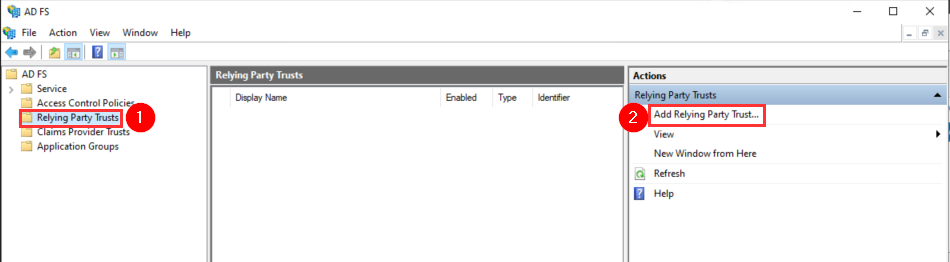
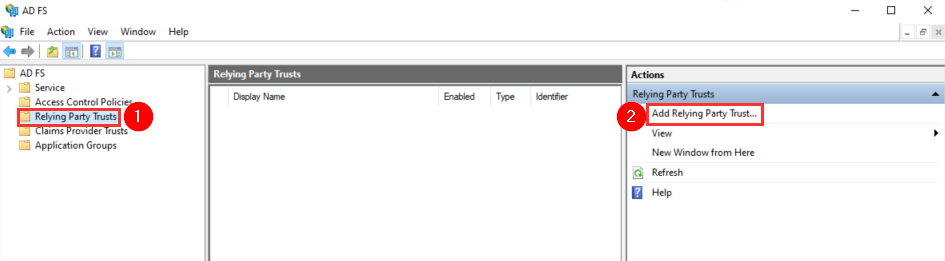
Improve image quality and width

Changed region(s): [[0.0, 0.0, 1.0, 1.0], [0.982, 0.4598, 1.0, 0.5517], [0.982, 0.9502, 1.0, 1.0]]

diff --git a/_posts/2023-08-22-Configuring-HPE-GreenLake-SSO-SAML-Authentication-with-ADFS.md b/_posts/2023-08-22-Configuring-HPE-GreenLake-SSO-SAML-Authentication-with-ADFS.md
@@ -194,7 +194,7 @@ So if you are not connected to HPE GreenLake with an email from your SAML domain
 >
 > Then click on **Send Invite**. This will send an email invitation to the mailbox of your AD user. 
 > 
-> ![]( {{ site.baseurl }}/assets/images/AD-ADFS-12.png){:class="citation-image-post"}{:height="400px"}
+> ![]( {{ site.baseurl }}/assets/images/AD-ADFS-12.png ){:class="body-image-post"}{:width="50%"}
 >
 > Accept the invitation by clicking on the **Accept invitation** button and complete the HPE GreenLake registration.
 
@@ -273,9 +273,9 @@ In the results page, you might have a few warnings. You can then close the wizar
 
 > **Note**: If you get an SPN error message, you can run the following command from a PowerShell console:    
 ```bash
-setspn -a host/localhost <service account>
+setspn -a host/localhost <service-account>
 ```    
-> where **\<service account\>** corresponds to **adfssvc** in our case. 
+> where *\<service-account\>* corresponds to **adfssvc** in our case. 
 
 AD FS service should be running now, make sure the status is *online* in the Server Manager console:
 
@@ -297,7 +297,7 @@ By default ADFS is not configured for RelayState, a parameter of the SAML federa
 
 > If you don't enable RelayState and don't use the special encoded url with *RelayState*, you will get the following error from HPE GreenLake when using the iDP-initiated SSO:   
 > 
-> ![]( {{ site.baseurl }}/assets/images/AD-ADFS-25-1.png){:class="body-image-post"}{:height="300px"}
+> ![]( {{ site.baseurl }}/assets/images/AD-ADFS-25-1.png){:class="body-image-post"}{:width="50%"}
 
 
 There are two steps to this configuration:
@@ -317,18 +317,24 @@ There are two steps to this configuration:
 
 2. Building the URL required at the ADFS sign on page:
 	
-   In addition, RelayState requires a encoded URL for the iDP-initiated login. To generate this encoded URL, you can use an ADFS RelayState generator tool such as [https://jackstromberg.com/adfs-relay-state-generator/](https://jackstromberg.com/adfs-relay-state-generator/). 
+   In addition, RelayState requires an encoded URL for the iDP-initiated login. To generate this encoded URL, you can use an ADFS RelayState generator tool such as [https://jackstromberg.com/adfs-relay-state-generator/](https://jackstromberg.com/adfs-relay-state-generator/) using the following URLs:
+   - *IDP URL String*: **https://\<FQDN\>/adfs/ls/IdPInitiatedSignon.aspx** with *\<FQDN\>* the fully qualified domain name (FQDN) host name of your ADFS server.
+ <br/>
 
-   You can use the following URLs:
-   - IDP URL String: **https://\<FQDN\>/adfs/ls/IdPInitiatedSignon.aspx** with \<FQDN\> the fully qualified domain name (FQDN) host name of your ADFS server.
-   - Relying Party Identifier: **https://sso.common.cloud.hpe.com**
-   - For Relay State, you can use different URL depending on your needs:   
-       - If you want to get to the HPE GreenLake home page, you can use: **https://common.cloud.hpe.com**
-       - If you want to get to an application instance such as Compute Ops Management US-West home page, you can use **https://us-west2.compute.cloud.hpe.com** but this is not recommended if you have more than one application on the HPE GreenLake platform.     
-           
-   > If you use "Compute Ops Management" as the RelayState, after logging on, you will be redirected to the home page of Compute Ops Management.
+   - *Relying Party Identifier*: **https://sso.common.cloud.hpe.com**
+ <br/>
+  
+   - For *Relay State*, you can use different URL depending on your needs:   
+       - **https://common.cloud.hpe.com** if you want to get to the HPE GreenLake home page.
+       - Any HPE GreenLake application such as **https://us-west2.compute.cloud.hpe.com** if you want for example get to the US-West Compute Ops Management home page.
+ <br/>
+ <br/>
+
+   > **Note**: If you use **https://us-west2.compute.cloud.hpe.com** as the RelayState, after logging on, you will be redirected to the home page of Compute Ops Management.
+   >
+   > **Note**: It is not recommended to use an application RelayState if you have more than one application on the HPE GreenLake platform.     
     
-   ![]( {{ site.baseurl }}/assets/images/AD-ADFS-25-2.png){:class="body-image-post"}{:height="500px"}
+   ![]( {{ site.baseurl }}/assets/images/AD-ADFS-25-2.png){:class="body-image-post"}{:width="80%"}
 
    Your encoded URL will then look like:     
 	```
@@ -343,7 +349,7 @@ There are two steps to this configuration:
 
 Now it's time to configure your HPE GreenLake environment for SAML SSO authentication. Log in to the HPE GreenLake platform using your AD administrative user account (i.e. lionel@\<your_domain_name.com\> created above).
 
-![]( {{ site.baseurl }}/assets/images/AD-GLCP-1.png){:class="body-image-post"}{:height="300px"}
+![]( {{ site.baseurl }}/assets/images/AD-GLCP-1.png){:class="body-image-post"}{:width="50%"}
 
 Then go to **Manage** / **Authentication**
 
@@ -590,15 +596,15 @@ version_1#{workspace_id_1}:{application_id_1}:{role_name}:{resource_restriction_
 
 To substitute your own custom value for `{workspace_id}` and `{application_id}`, refer to your workspace IDs and application IDs previously recorded in step 8 on the HPE GreenLake platform. 
 
-Then for `{role_name}` and `{resource_restriction_policy_name}`:
+Then for:
 
-- `{Role_name}` is found in the HPE GreenLake interface in **Manage** / **Identity & Access** / **Roles & Permissions**.
+- `{Role_name}`: found in the HPE GreenLake interface in **Manage** / **Identity & Access** / **Roles & Permissions**.
   
   ![]( {{ site.baseurl }}/assets/images/AD-ADFS-44-1.png){:class="body-image-post"}
 
   As illustrated above, the administrative role name for Compute Ops Management is *Administrator* but *Account Administrator* for the HPE GreenLake platform.
 
-- `{resource_restriction_policy_name}` is found in **Manage** / **Identity & Access** / **Resource Restriction Policies**.
+- `{resource_restriction_policy_name}`: found in **Manage** / **Identity & Access** / **Resource Restriction Policies**.
   
   ![]( {{ site.baseurl }}/assets/images/AD-ADFS-44-2.png){:class="body-image-post"}
 
@@ -715,13 +721,13 @@ This test consists of testing the authentication initiated by the Service provid
 
 Open a web browser, and go to the HPE GreenLake interface at [https://common.cloud.hpe.com/](https://common.cloud.hpe.com/) and click the **Sign in with SSO** button:
 
-![]( {{ site.baseurl }}/assets/images/AD-ADFS-53.png){:class="body-image-post"}{:height="500px"}
+![]( {{ site.baseurl }}/assets/images/AD-ADFS-53.png){:class="body-image-post"}{:width="60%"}
 
 ### Test authentication with an AD administrator user
 
 To test an AD user with administrative role, provide the Active Directory e-mail address of the admin user created at step 3 in our example (i.e. lionel) then click **Next**:
 
-![]( {{ site.baseurl }}/assets/images/AD-ADFS-54.png){:class="body-image-post"}{:height="500px"}
+![]( {{ site.baseurl }}/assets/images/AD-ADFS-54.png){:class="body-image-post"}{:width="60%"}
 
 The ADFS sign on page opens, enter the Active Directory user credentials and click **Sign in**:
 
@@ -756,7 +762,7 @@ And to also disconnect from HPE GreenLake in the ADFS sign on page at [https://\
 Once you've logged out from both, you can click on the **Sign in with SSO** button again and provide the Active Directory e-mail address of the observer user created at step 3 in our example (i.e. mike) then click **Next**:
 
 
-![]( {{ site.baseurl }}/assets/images/AD-ADFS-60.png){:class="body-image-post"}{:height="500px"}
+![]( {{ site.baseurl }}/assets/images/AD-ADFS-60.png){:class="body-image-post"}{:width="60%"}
 
 The ADFS sign on page opens again, enter this time the Active Directory observer user credentials and click **Sign in**:
 
@@ -772,7 +778,7 @@ And check that you have observer rights in **Manage** / **Identity & Access** / 
 >
 > You can click on **Limited Access** to obtain the name of the resource restriction policy used:
 >
-> ![]( {{ site.baseurl }}/assets/images/AD-ADFS-64.png){:class="body-image-post"}{:height="300px"}
+> ![]( {{ site.baseurl }}/assets/images/AD-ADFS-64.png){:class="body-image-post"}{:width="50%"}
 
 <a name="iDPInitiatedtest"></a>
 
